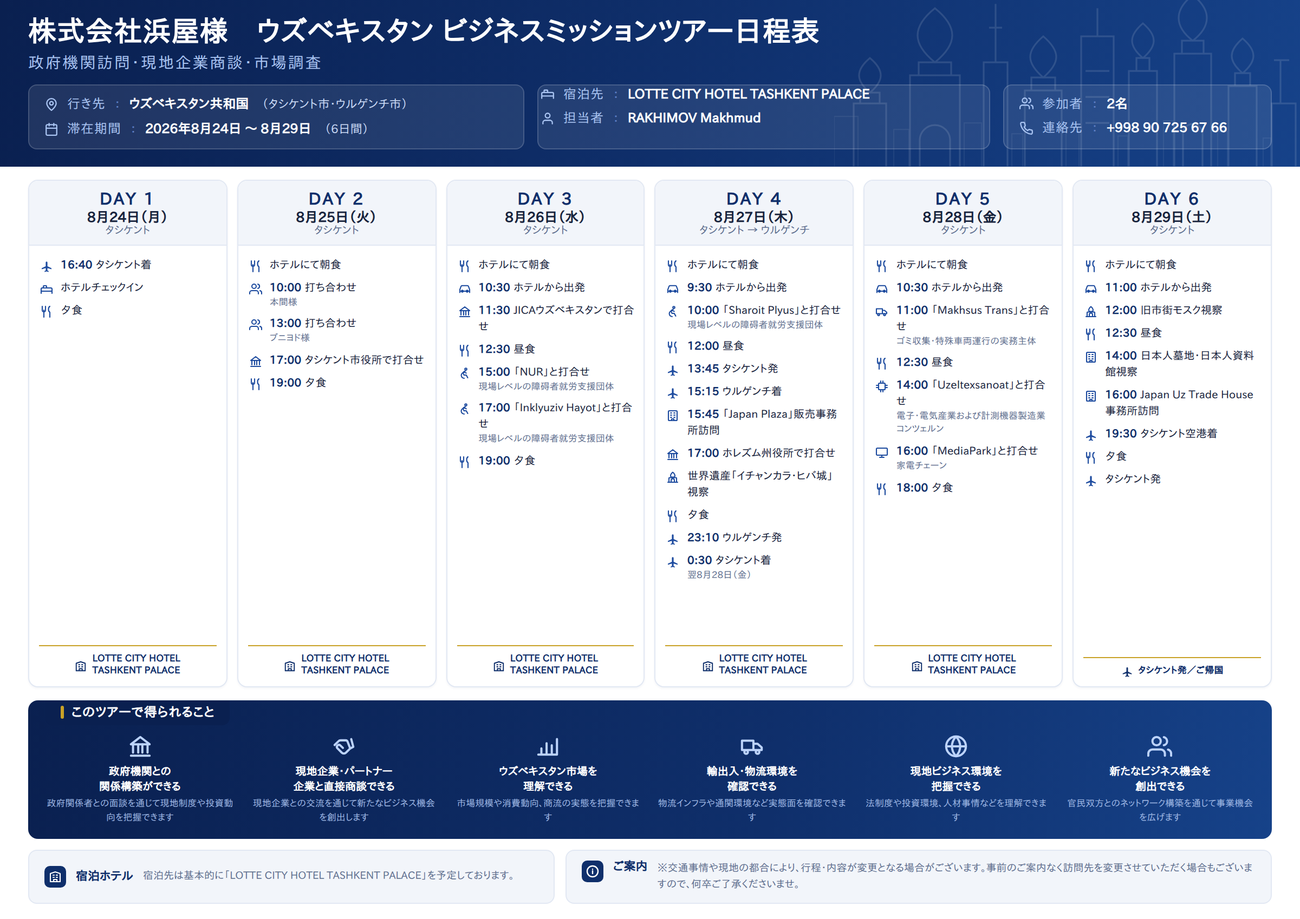
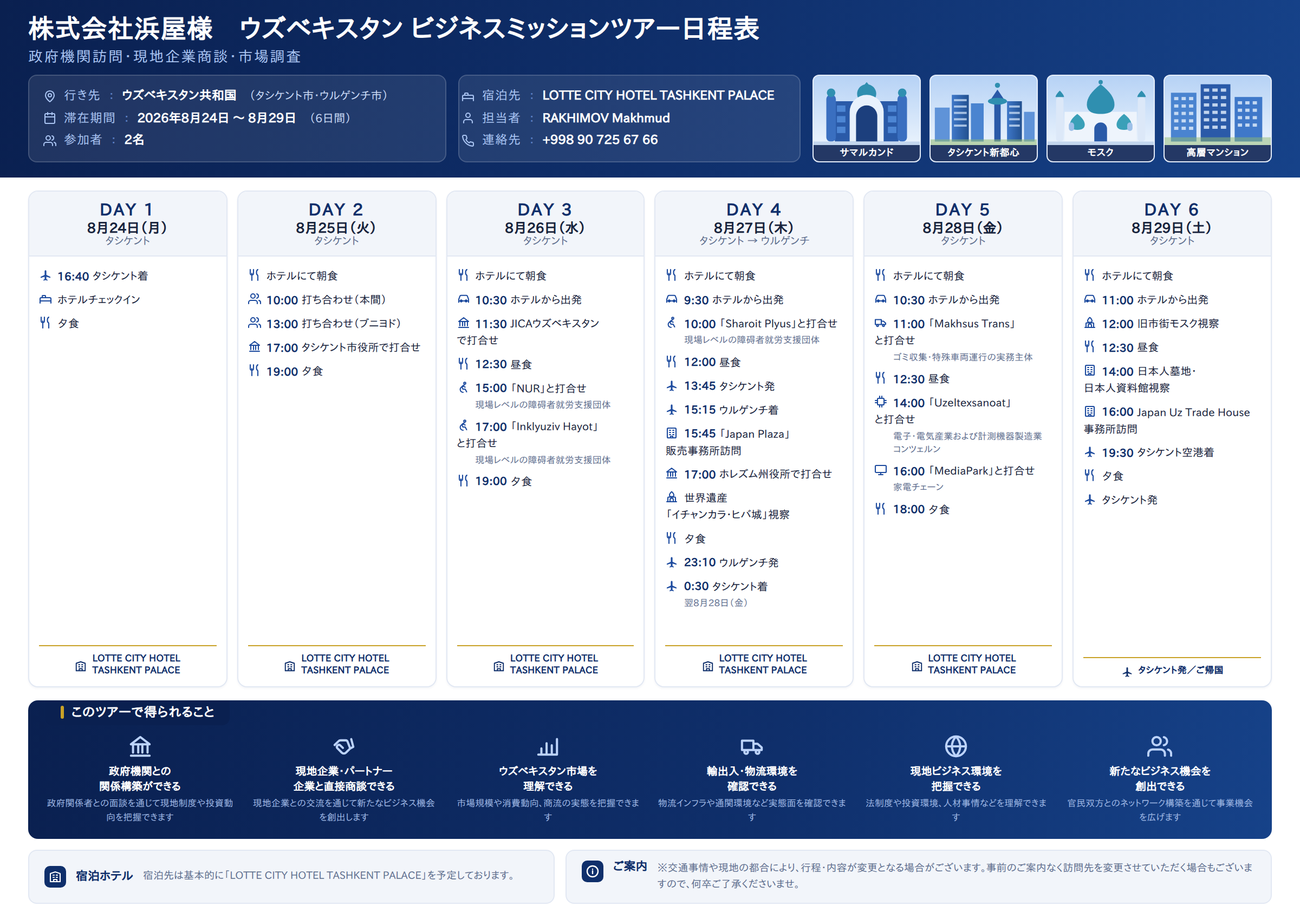
敬称の削除・右上フォトストリップの復活・改行位置の改善
- 25日の打合せ相手を「本間」「ブニヨド」に修正（敬称を付けない）
- 表記を「10:00 打ち合わせ（本間）」の形にまとめて読みやすく
- ヘッダー右上に4枚組のビジュアル（サマルカンド／タシケント新都心／
  モスク／高層マンション）を復活
- 項目のアイコンをインライン化し、折り返し行がカード幅いっぱいを使えるよう変更
- 固有名詞と「〜と打合せ」を改行禁止に指定し、「せ」だけが次行に
  こぼれる問題を解消（2行になっても語句の途中では切れない）
- 行き先欄に都市名を戻し、参加者欄と分離

Changed region(s): [[0.0, 0.0, 1.0, 0.6555]]

diff --git a/schedule/hamaya-uzbekistan-2026.html b/schedule/hamaya-uzbekistan-2026.html
@@ -14,22 +14,29 @@
        -webkit-font-smoothing:antialiased}
   .sheet{width:1200px;height:849px;background:#fff;display:flex;flex-direction:column;overflow:hidden}
 
-  /* ---------- header (navy block: title + info) ---------- */
+  /* ---------- header (navy block: title + info + photos) ---------- */
   .hero{position:relative;background:linear-gradient(100deg,#0a2050 0%,#0f2f6b 52%,#164289 100%);
-        padding:15px 26px 16px;color:#fff;flex:0 0 auto;overflow:hidden}
-  .skyline{position:absolute;right:0;top:0;height:100%;width:430px;opacity:.22}
-  .hero h1{font-size:26px;font-weight:900;letter-spacing:.4px;line-height:1.15;position:relative;z-index:2}
-  .hero .sub{margin-top:5px;font-size:14.5px;font-weight:500;color:#a9c4f2;letter-spacing:1.4px;position:relative;z-index:2}
-  .infobar{margin-top:13px;display:flex;gap:12px;position:relative;z-index:2}
+        padding:13px 26px 14px;color:#fff;flex:0 0 auto;overflow:hidden}
+  .hero h1{font-size:24px;font-weight:900;letter-spacing:.4px;line-height:1.15}
+  .hero .sub{margin-top:4px;font-size:13.5px;font-weight:500;color:#a9c4f2;letter-spacing:1.3px}
+  .hrow{margin-top:10px;display:flex;gap:11px;align-items:stretch}
   .ibox{background:rgba(255,255,255,.09);border:1px solid rgba(255,255,255,.16);border-radius:8px;
-        padding:9px 14px;display:flex;flex-direction:column;gap:6px}
-  .ibox.a{flex:0 0 458px} .ibox.b{flex:0 0 418px} .ibox.c{flex:1}
-  .kv{display:flex;align-items:center;gap:8px;font-size:12px;line-height:1.35}
-  .kv svg{width:13px;height:13px;flex:0 0 13px;color:#a9c4f2}
+        padding:8px 13px;display:flex;flex-direction:column;justify-content:center;gap:5px}
+  .ibox.a{flex:0 0 386px} .ibox.b{flex:1}
+  .kv{display:flex;align-items:center;gap:7px;font-size:11.5px;line-height:1.35}
+  .kv svg{width:12px;height:12px;flex:0 0 12px;color:#a9c4f2}
   .kv .k{color:#a9c4f2;font-weight:500;flex:0 0 auto;letter-spacing:.5px}
   .kv .sep{color:#5f80c4}
   .kv .v{font-weight:700;color:#fff;white-space:nowrap}
-  .kv .v small{font-weight:400;font-size:11px;color:#c9d9f5}
+  .kv .v small{font-weight:400;font-size:10.5px;color:#c9d9f5}
+
+  /* photo strip */
+  .photos{flex:0 0 424px;display:grid;grid-template-columns:repeat(4,1fr);gap:8px}
+  .ph{border-radius:6px;overflow:hidden;background:#dbe7f8;border:1px solid rgba(255,255,255,.28);
+      display:flex;flex-direction:column}
+  .ph svg{display:block;width:100%;height:100%;flex:1}
+  .ph .cap{background:rgba(10,32,80,.88);color:#fff;font-size:9px;font-weight:700;
+           text-align:center;padding:3px 2px;letter-spacing:.3px}
 
   /* ---------- days ---------- */
   .days{flex:1 1 auto;display:grid;grid-template-columns:repeat(6,1fr);gap:9px;padding:12px 26px 0;min-height:0}
@@ -41,12 +48,14 @@
   .dhead .city{margin-top:1px;font-size:10px;font-weight:500;color:var(--muted)}
 
   .items{flex:1;padding:8px 9px 2px;display:flex;flex-direction:column}
-  .it{display:flex;gap:6px;padding:3px 0}
-  .it .ic{width:14px;flex:0 0 14px;display:flex;justify-content:center;padding-top:2px;color:var(--navy-l)}
-  .it .ic svg{width:12px;height:12px}
-  .it .body{min-width:0;font-size:10px;line-height:1.5;color:var(--ink);font-weight:500}
-  .it .body .t{font-weight:700;color:var(--navy);letter-spacing:.2px;margin-right:3px}
-  .it .body .n{display:block;font-size:8.5px;color:var(--muted);font-weight:400;line-height:1.4;margin-top:1px}
+  .it{padding:3px 0;font-size:10px;line-height:1.55;color:var(--ink);font-weight:500;
+      word-break:normal;overflow-wrap:normal;line-break:strict}
+  .it .ic{display:inline-block;width:12px;height:12px;vertical-align:-1.5px;
+          margin-right:5px;color:var(--navy-l)}
+  .it .t{font-weight:700;color:var(--navy);letter-spacing:.2px;margin-right:3px;white-space:nowrap}
+  .it .n{display:block;font-size:8.5px;color:var(--muted);font-weight:400;
+         line-height:1.45;margin-top:1px;padding-left:17px}
+  .nb{white-space:nowrap}
 
   .dfoot{margin:4px 9px 0;border-top:1px solid var(--gold);padding:7px 0 8px;
          display:flex;align-items:center;justify-content:center;gap:5px;color:var(--navy);text-align:center}
@@ -110,45 +119,93 @@
 
   <!-- ================= HERO ================= -->
   <div class="hero">
-    <svg class="skyline" viewBox="0 0 430 180" preserveAspectRatio="xMaxYMax slice" fill="none">
-      <g stroke="#ffffff" stroke-width="1.6" opacity=".55">
-        <path d="M18 180v-58h30v58M24 122v-10h18v10M33 112c7-6 10-11 10-16 0-6-4-11-10-16-6 5-10 10-10 16 0 5 3 10 10 16Z"/>
-        <path d="M70 180v-84h46v84M78 96V84h30v12M93 84c11-9 16-17 16-25 0-9-6-17-16-25-10 8-16 16-16 25 0 8 5 16 16 25Z" />
-        <path d="M79 180v-24a14 14 0 0 1 28 0v24"/>
-        <path d="M138 180v-96h22v96M149 84V52M143 52h12M149 52c0-8 0-16 0-22"/>
-        <path d="M176 180v-70h34v70M182 110V98h22v12M193 98c8-7 12-13 12-19 0-7-5-13-12-19-7 6-12 12-12 19 0 6 4 12 12 19Z"/>
-        <path d="M228 180v-120h30v120M243 60V34M232 92h22M232 116h22M232 140h22"/>
-        <path d="M272 180v-88h26v88M279 92V80h12v12M285 80c7-6 10-11 10-16s-3-10-10-16c-7 6-10 11-10 16s3 10 10 16Z"/>
-        <path d="M314 180v-104h34v104M321 76V64h20v12M331 64c9-7 13-14 13-21s-4-14-13-21c-9 7-13 14-13 21s4 14 13 21Z"/>
-        <path d="M322 180v-30a9 9 0 0 1 18 0v30"/>
-        <path d="M364 180v-74h26v74M370 106V94h14v12M377 94c7-6 10-11 10-16s-3-10-10-16c-7 6-10 11-10 16s3 10 10 16Z"/>
-        <path d="M404 180v-58h22v58M412 122v-40M406 82h14"/>
-      </g>
-      <g stroke="#ffffff" stroke-width="1.1" opacity=".28">
-        <path d="M0 180v-46h22v46M55 180v-34h14v34M120 180v-40h16v40M164 180v-30h10v30M214 180v-36h12v36M262 180v-28h9v28M304 180v-42h9v42M354 180v-32h9v32M396 180v-26h7v26"/>
-      </g>
-    </svg>
     <h1>株式会社浜屋様　ウズベキスタン ビジネスミッションツアー日程表</h1>
     <div class="sub">政府機関訪問・現地企業商談・市場調査</div>
 
-    <div class="infobar">
+    <div class="hrow">
       <div class="ibox a">
         <div class="kv"><svg><use href="#i-pin"/></svg><span class="k">行き先</span><span class="sep">：</span>
           <span class="v">ウズベキスタン共和国　<small>（タシケント市・ウルゲンチ市）</small></span></div>
         <div class="kv"><svg><use href="#i-cal"/></svg><span class="k">滞在期間</span><span class="sep">：</span>
           <span class="v">2026年8月24日 〜 8月29日　<small>（6日間）</small></span></div>
+        <div class="kv"><svg><use href="#i-users"/></svg><span class="k">参加者</span><span class="sep">：</span>
+          <span class="v">2名</span></div>
       </div>
       <div class="ibox b">
         <div class="kv"><svg><use href="#i-bed"/></svg><span class="k">宿泊先</span><span class="sep">：</span>
           <span class="v">LOTTE CITY HOTEL TASHKENT PALACE</span></div>
         <div class="kv"><svg><use href="#i-user"/></svg><span class="k">担当者</span><span class="sep">：</span>
           <span class="v">RAKHIMOV Makhmud</span></div>
-      </div>
-      <div class="ibox c">
-        <div class="kv"><svg><use href="#i-users"/></svg><span class="k">参加者</span><span class="sep">：</span>
-          <span class="v">2名</span></div>
         <div class="kv"><svg><use href="#i-phone"/></svg><span class="k">連絡先</span><span class="sep">：</span>
           <span class="v">+998 90 725 67 66</span></div>
+      </div>
+
+      <div class="photos">
+        <div class="ph"><svg viewBox="0 0 100 66" preserveAspectRatio="xMidYMid slice">
+  <defs><linearGradient id="s1" x1="0" y1="0" x2="0" y2="1"><stop offset="0" stop-color="#b6d2f5"/><stop offset="1" stop-color="#eaf3fd"/></linearGradient></defs>
+  <rect width="100" height="66" fill="url(#s1)"/>
+  <circle cx="50" cy="17" r="9" fill="#2f8fb0"/><path d="M50 6c3 3 4 6 4 9H46c0-3 1-6 4-9Z" fill="#2f8fb0"/>
+  <rect x="20" y="24" width="60" height="38" fill="#2a5aa8"/>
+  <path d="M34 62V34a16 16 0 0 1 32 0v28Z" fill="#e8f1fc"/>
+  <path d="M40 62V38a10 10 0 0 1 20 0v24Z" fill="#1c3f7d"/>
+  <rect x="12" y="18" width="9" height="44" rx="4" fill="#3a6fc0"/><circle cx="16.5" cy="16" r="4" fill="#2f8fb0"/>
+  <rect x="79" y="18" width="9" height="44" rx="4" fill="#3a6fc0"/><circle cx="83.5" cy="16" r="4" fill="#2f8fb0"/>
+  <g fill="#4d86d4"><rect x="22" y="28" width="8" height="6"/><rect x="22" y="38" width="8" height="6"/><rect x="22" y="48" width="8" height="6"/><rect x="70" y="28" width="8" height="6"/><rect x="70" y="38" width="8" height="6"/><rect x="70" y="48" width="8" height="6"/></g>
+  <rect y="62" width="100" height="4" fill="#c3d6ee"/>
+</svg><div class="cap">サマルカンド</div></div>
+        <div class="ph"><svg viewBox="0 0 100 66" preserveAspectRatio="xMidYMid slice">
+  <defs><linearGradient id="s2" x1="0" y1="0" x2="0" y2="1"><stop offset="0" stop-color="#b6d2f5"/><stop offset="1" stop-color="#eaf3fd"/></linearGradient>
+  <linearGradient id="g2" x1="0" y1="0" x2="1" y2="0"><stop offset="0" stop-color="#3f78c9"/><stop offset="1" stop-color="#22508f"/></linearGradient></defs>
+  <rect width="100" height="66" fill="url(#s2)"/>
+  <rect x="4" y="30" width="14" height="32" fill="#5f93d8"/>
+  <rect x="20" y="18" width="16" height="44" fill="url(#g2)"/>
+  <rect x="38" y="26" width="12" height="36" fill="#4a84d0"/>
+  <path d="M60 62V22h6v40Z" fill="#2a5aa8"/><path d="M57 22h12l-6-9Z" fill="#2a5aa8"/>
+  <ellipse cx="63" cy="24" rx="9" ry="3.2" fill="#2f8fb0"/><circle cx="63" cy="9" r="2.4" fill="#2f8fb0"/>
+  <rect x="72" y="24" width="14" height="38" fill="url(#g2)"/>
+  <rect x="88" y="34" width="10" height="28" fill="#5f93d8"/>
+  <g fill="#cfe2f8" opacity=".75"><rect x="22" y="22" width="12" height="2"/><rect x="22" y="28" width="12" height="2"/><rect x="22" y="34" width="12" height="2"/><rect x="22" y="40" width="12" height="2"/><rect x="22" y="46" width="12" height="2"/><rect x="74" y="28" width="10" height="2"/><rect x="74" y="34" width="10" height="2"/><rect x="74" y="40" width="10" height="2"/><rect x="74" y="46" width="10" height="2"/></g>
+  <rect y="60" width="100" height="6" fill="#8fb96f" opacity=".55"/>
+</svg><div class="cap">タシケント新都心</div></div>
+        <div class="ph"><svg viewBox="0 0 100 66" preserveAspectRatio="xMidYMid slice">
+  <defs><linearGradient id="s3" x1="0" y1="0" x2="0" y2="1"><stop offset="0" stop-color="#b6d2f5"/><stop offset="1" stop-color="#eaf3fd"/></linearGradient></defs>
+  <rect width="100" height="66" fill="url(#s3)"/>
+  <rect x="16" y="34" width="68" height="28" fill="#eef4fc"/>
+  <path d="M50 8c9 7 13 13 13 19 0 5-3 9-13 9s-13-4-13-9c0-6 4-12 13-19Z" fill="#2f8fb0"/>
+  <circle cx="50" cy="6" r="2" fill="#2f8fb0"/>
+  <path d="M28 36c5 4 7 7 7 10 0 3-2 5-7 5s-7-2-7-5c0-3 2-6 7-10Z" fill="#3aa0b8"/>
+  <path d="M72 36c5 4 7 7 7 10 0 3-2 5-7 5s-7-2-7-5c0-3 2-6 7-10Z" fill="#3aa0b8"/>
+  <rect x="8" y="20" width="7" height="42" rx="3" fill="#dce8f8"/><path d="M11.5 14c3 3 4 5 4 6h-8c0-1 1-3 4-6Z" fill="#2f8fb0"/>
+  <rect x="85" y="20" width="7" height="42" rx="3" fill="#dce8f8"/><path d="M88.5 14c3 3 4 5 4 6h-8c0-1 1-3 4-6Z" fill="#2f8fb0"/>
+  <path d="M44 62V50a6 6 0 0 1 12 0v12Z" fill="#2a5aa8"/>
+  <g fill="#9dc0e8"><rect x="20" y="44" width="5" height="8" rx="2.5"/><rect x="75" y="44" width="5" height="8" rx="2.5"/></g>
+  <rect y="62" width="100" height="4" fill="#c3d6ee"/>
+</svg><div class="cap">モスク</div></div>
+        <div class="ph"><svg viewBox="0 0 100 66" preserveAspectRatio="xMidYMid slice">
+  <defs><linearGradient id="s4" x1="0" y1="0" x2="0" y2="1"><stop offset="0" stop-color="#b6d2f5"/><stop offset="1" stop-color="#eaf3fd"/></linearGradient></defs>
+  <rect width="100" height="66" fill="url(#s4)"/>
+  <rect x="6" y="16" width="24" height="46" fill="#4a84d0"/>
+  <rect x="34" y="8" width="28" height="54" fill="#2a5aa8"/>
+  <rect x="66" y="20" width="26" height="42" fill="#3f78c9"/>
+  <g fill="#dbe9fa" opacity=".85">
+    <rect x="9" y="20" width="4" height="3"/><rect x="16" y="20" width="4" height="3"/><rect x="23" y="20" width="4" height="3"/>
+    <rect x="9" y="27" width="4" height="3"/><rect x="16" y="27" width="4" height="3"/><rect x="23" y="27" width="4" height="3"/>
+    <rect x="9" y="34" width="4" height="3"/><rect x="16" y="34" width="4" height="3"/><rect x="23" y="34" width="4" height="3"/>
+    <rect x="9" y="41" width="4" height="3"/><rect x="16" y="41" width="4" height="3"/><rect x="23" y="41" width="4" height="3"/>
+    <rect x="9" y="48" width="4" height="3"/><rect x="16" y="48" width="4" height="3"/><rect x="23" y="48" width="4" height="3"/>
+    <rect x="37" y="12" width="5" height="3"/><rect x="45" y="12" width="5" height="3"/><rect x="53" y="12" width="5" height="3"/>
+    <rect x="37" y="19" width="5" height="3"/><rect x="45" y="19" width="5" height="3"/><rect x="53" y="19" width="5" height="3"/>
+    <rect x="37" y="26" width="5" height="3"/><rect x="45" y="26" width="5" height="3"/><rect x="53" y="26" width="5" height="3"/>
+    <rect x="37" y="33" width="5" height="3"/><rect x="45" y="33" width="5" height="3"/><rect x="53" y="33" width="5" height="3"/>
+    <rect x="37" y="40" width="5" height="3"/><rect x="45" y="40" width="5" height="3"/><rect x="53" y="40" width="5" height="3"/>
+    <rect x="37" y="47" width="5" height="3"/><rect x="45" y="47" width="5" height="3"/><rect x="53" y="47" width="5" height="3"/>
+    <rect x="69" y="24" width="4" height="3"/><rect x="76" y="24" width="4" height="3"/><rect x="83" y="24" width="4" height="3"/>
+    <rect x="69" y="31" width="4" height="3"/><rect x="76" y="31" width="4" height="3"/><rect x="83" y="31" width="4" height="3"/>
+    <rect x="69" y="38" width="4" height="3"/><rect x="76" y="38" width="4" height="3"/><rect x="83" y="38" width="4" height="3"/>
+    <rect x="69" y="45" width="4" height="3"/><rect x="76" y="45" width="4" height="3"/><rect x="83" y="45" width="4" height="3"/>
+  </g>
+  <rect y="58" width="100" height="8" fill="#8fb96f" opacity=".5"/>
+</svg><div class="cap">高層マンション</div></div>
       </div>
     </div>
   </div>
@@ -159,9 +216,9 @@
     <div class="day">
       <div class="dhead"><div class="num">DAY 1</div><div class="date">8月24日（月）</div><div class="city">タシケント</div></div>
       <div class="items">
-        <div class="it"><div class="ic"><svg><use href="#i-plane"/></svg></div><div class="body"><span class="t">16:40</span>タシケント着</div></div>
-        <div class="it"><div class="ic"><svg><use href="#i-bed"/></svg></div><div class="body">ホテルチェックイン</div></div>
-        <div class="it"><div class="ic"><svg><use href="#i-meal"/></svg></div><div class="body">夕食</div></div>
+        <div class="it"><svg class="ic"><use href="#i-plane"/></svg><span class="t">16:40</span>タシケント着</div>
+        <div class="it"><svg class="ic"><use href="#i-bed"/></svg><span class="nb">ホテルチェックイン</span></div>
+        <div class="it"><svg class="ic"><use href="#i-meal"/></svg>夕食</div>
       </div>
       <div class="dfoot"><svg><use href="#i-hotel2"/></svg><span>LOTTE CITY HOTEL<br>TASHKENT PALACE</span></div>
     </div>
@@ -169,11 +226,11 @@
     <div class="day">
       <div class="dhead"><div class="num">DAY 2</div><div class="date">8月25日（火）</div><div class="city">タシケント</div></div>
       <div class="items">
-        <div class="it"><div class="ic"><svg><use href="#i-meal"/></svg></div><div class="body">ホテルにて朝食</div></div>
-        <div class="it"><div class="ic"><svg><use href="#i-users"/></svg></div><div class="body"><span class="t">10:00</span>打ち合わせ<span class="n">本間様</span></div></div>
-        <div class="it"><div class="ic"><svg><use href="#i-users"/></svg></div><div class="body"><span class="t">13:00</span>打ち合わせ<span class="n">ブニヨド様</span></div></div>
-        <div class="it"><div class="ic"><svg><use href="#i-bank"/></svg></div><div class="body"><span class="t">17:00</span>タシケント市役所で打合せ</div></div>
-        <div class="it"><div class="ic"><svg><use href="#i-meal"/></svg></div><div class="body"><span class="t">19:00</span>夕食</div></div>
+        <div class="it"><svg class="ic"><use href="#i-meal"/></svg><span class="nb">ホテルにて朝食</span></div>
+        <div class="it"><svg class="ic"><use href="#i-users"/></svg><span class="t">10:00</span>打ち合わせ<span class="nb">（本間）</span></div>
+        <div class="it"><svg class="ic"><use href="#i-users"/></svg><span class="t">13:00</span>打ち合わせ<span class="nb">（ブニヨド）</span></div>
+        <div class="it"><svg class="ic"><use href="#i-bank"/></svg><span class="t">17:00</span><span class="nb">タシケント市役所</span><span class="nb">で打合せ</span></div>
+        <div class="it"><svg class="ic"><use href="#i-meal"/></svg><span class="t">19:00</span>夕食</div>
       </div>
       <div class="dfoot"><svg><use href="#i-hotel2"/></svg><span>LOTTE CITY HOTEL<br>TASHKENT PALACE</span></div>
     </div>
@@ -181,13 +238,13 @@
     <div class="day">
       <div class="dhead"><div class="num">DAY 3</div><div class="date">8月26日（水）</div><div class="city">タシケント</div></div>
       <div class="items">
-        <div class="it"><div class="ic"><svg><use href="#i-meal"/></svg></div><div class="body">ホテルにて朝食</div></div>
-        <div class="it"><div class="ic"><svg><use href="#i-car"/></svg></div><div class="body"><span class="t">10:30</span>ホテルから出発</div></div>
-        <div class="it"><div class="ic"><svg><use href="#i-bank"/></svg></div><div class="body"><span class="t">11:30</span>JICAウズベキスタンで打合せ</div></div>
-        <div class="it"><div class="ic"><svg><use href="#i-meal"/></svg></div><div class="body"><span class="t">12:30</span>昼食</div></div>
-        <div class="it"><div class="ic"><svg><use href="#i-acc"/></svg></div><div class="body"><span class="t">15:00</span>「NUR」と打合せ<span class="n">現場レベルの障碍者就労支援団体</span></div></div>
-        <div class="it"><div class="ic"><svg><use href="#i-acc"/></svg></div><div class="body"><span class="t">17:00</span>「Inklyuziv Hayot」と打合せ<span class="n">現場レベルの障碍者就労支援団体</span></div></div>
-        <div class="it"><div class="ic"><svg><use href="#i-meal"/></svg></div><div class="body"><span class="t">19:00</span>夕食</div></div>
+        <div class="it"><svg class="ic"><use href="#i-meal"/></svg><span class="nb">ホテルにて朝食</span></div>
+        <div class="it"><svg class="ic"><use href="#i-car"/></svg><span class="t">10:30</span><span class="nb">ホテルから出発</span></div>
+        <div class="it"><svg class="ic"><use href="#i-bank"/></svg><span class="t">11:30</span><span class="nb">JICAウズベキスタン</span><span class="nb">で打合せ</span></div>
+        <div class="it"><svg class="ic"><use href="#i-meal"/></svg><span class="t">12:30</span>昼食</div>
+        <div class="it"><svg class="ic"><use href="#i-acc"/></svg><span class="t">15:00</span><span class="nb">「NUR」</span><span class="nb">と打合せ</span><span class="n">現場レベルの障碍者就労支援団体</span></div>
+        <div class="it"><svg class="ic"><use href="#i-acc"/></svg><span class="t">17:00</span><span class="nb">「Inklyuziv Hayot」</span><span class="nb">と打合せ</span><span class="n">現場レベルの障碍者就労支援団体</span></div>
+        <div class="it"><svg class="ic"><use href="#i-meal"/></svg><span class="t">19:00</span>夕食</div>
       </div>
       <div class="dfoot"><svg><use href="#i-hotel2"/></svg><span>LOTTE CITY HOTEL<br>TASHKENT PALACE</span></div>
     </div>
@@ -195,18 +252,18 @@
     <div class="day">
       <div class="dhead"><div class="num">DAY 4</div><div class="date">8月27日（木）</div><div class="city">タシケント → ウルゲンチ</div></div>
       <div class="items">
-        <div class="it"><div class="ic"><svg><use href="#i-meal"/></svg></div><div class="body">ホテルにて朝食</div></div>
-        <div class="it"><div class="ic"><svg><use href="#i-car"/></svg></div><div class="body"><span class="t">9:30</span>ホテルから出発</div></div>
-        <div class="it"><div class="ic"><svg><use href="#i-acc"/></svg></div><div class="body"><span class="t">10:00</span>「Sharoit Plyus」と打合せ<span class="n">現場レベルの障碍者就労支援団体</span></div></div>
-        <div class="it"><div class="ic"><svg><use href="#i-meal"/></svg></div><div class="body"><span class="t">12:00</span>昼食</div></div>
-        <div class="it"><div class="ic"><svg><use href="#i-plane"/></svg></div><div class="body"><span class="t">13:45</span>タシケント発</div></div>
-        <div class="it"><div class="ic"><svg><use href="#i-plane"/></svg></div><div class="body"><span class="t">15:15</span>ウルゲンチ着</div></div>
-        <div class="it"><div class="ic"><svg><use href="#i-bldg"/></svg></div><div class="body"><span class="t">15:45</span>「Japan Plaza」販売事務所訪問</div></div>
-        <div class="it"><div class="ic"><svg><use href="#i-bank"/></svg></div><div class="body"><span class="t">17:00</span>ホレズム州役所で打合せ</div></div>
-        <div class="it"><div class="ic"><svg><use href="#i-mosque"/></svg></div><div class="body">世界遺産「イチャンカラ・ヒバ城」視察</div></div>
-        <div class="it"><div class="ic"><svg><use href="#i-meal"/></svg></div><div class="body">夕食</div></div>
-        <div class="it"><div class="ic"><svg><use href="#i-plane"/></svg></div><div class="body"><span class="t">23:10</span>ウルゲンチ発</div></div>
-        <div class="it"><div class="ic"><svg><use href="#i-plane"/></svg></div><div class="body"><span class="t">0:30</span>タシケント着<span class="n">翌8月28日（金）</span></div></div>
+        <div class="it"><svg class="ic"><use href="#i-meal"/></svg><span class="nb">ホテルにて朝食</span></div>
+        <div class="it"><svg class="ic"><use href="#i-car"/></svg><span class="t">9:30</span><span class="nb">ホテルから出発</span></div>
+        <div class="it"><svg class="ic"><use href="#i-acc"/></svg><span class="t">10:00</span><span class="nb">「Sharoit Plyus」</span><span class="nb">と打合せ</span><span class="n">現場レベルの障碍者就労支援団体</span></div>
+        <div class="it"><svg class="ic"><use href="#i-meal"/></svg><span class="t">12:00</span>昼食</div>
+        <div class="it"><svg class="ic"><use href="#i-plane"/></svg><span class="t">13:45</span>タシケント発</div>
+        <div class="it"><svg class="ic"><use href="#i-plane"/></svg><span class="t">15:15</span>ウルゲンチ着</div>
+        <div class="it"><svg class="ic"><use href="#i-bldg"/></svg><span class="t">15:45</span><span class="nb">「Japan Plaza」</span><span class="nb">販売事務所訪問</span></div>
+        <div class="it"><svg class="ic"><use href="#i-bank"/></svg><span class="t">17:00</span><span class="nb">ホレズム州役所</span><span class="nb">で打合せ</span></div>
+        <div class="it"><svg class="ic"><use href="#i-mosque"/></svg>世界遺産<span class="nb">「イチャンカラ・ヒバ城」視察</span></div>
+        <div class="it"><svg class="ic"><use href="#i-meal"/></svg>夕食</div>
+        <div class="it"><svg class="ic"><use href="#i-plane"/></svg><span class="t">23:10</span>ウルゲンチ発</div>
+        <div class="it"><svg class="ic"><use href="#i-plane"/></svg><span class="t">0:30</span>タシケント着<span class="n">翌8月28日（金）</span></div>
       </div>
       <div class="dfoot"><svg><use href="#i-hotel2"/></svg><span>LOTTE CITY HOTEL<br>TASHKENT PALACE</span></div>
     </div>
@@ -214,13 +271,13 @@
     <div class="day">
       <div class="dhead"><div class="num">DAY 5</div><div class="date">8月28日（金）</div><div class="city">タシケント</div></div>
       <div class="items">
-        <div class="it"><div class="ic"><svg><use href="#i-meal"/></svg></div><div class="body">ホテルにて朝食</div></div>
-        <div class="it"><div class="ic"><svg><use href="#i-car"/></svg></div><div class="body"><span class="t">10:30</span>ホテルから出発</div></div>
-        <div class="it"><div class="ic"><svg><use href="#i-truck"/></svg></div><div class="body"><span class="t">11:00</span>「Makhsus Trans」と打合せ<span class="n">ゴミ収集・特殊車両運行の実務主体</span></div></div>
-        <div class="it"><div class="ic"><svg><use href="#i-meal"/></svg></div><div class="body"><span class="t">12:30</span>昼食</div></div>
-        <div class="it"><div class="ic"><svg><use href="#i-chip"/></svg></div><div class="body"><span class="t">14:00</span>「Uzeltexsanoat」と打合せ<span class="n">電子・電気産業および計測機器製造業コンツェルン</span></div></div>
-        <div class="it"><div class="ic"><svg><use href="#i-tv"/></svg></div><div class="body"><span class="t">16:00</span>「MediaPark」と打合せ<span class="n">家電チェーン</span></div></div>
-        <div class="it"><div class="ic"><svg><use href="#i-meal"/></svg></div><div class="body"><span class="t">18:00</span>夕食</div></div>
+        <div class="it"><svg class="ic"><use href="#i-meal"/></svg><span class="nb">ホテルにて朝食</span></div>
+        <div class="it"><svg class="ic"><use href="#i-car"/></svg><span class="t">10:30</span><span class="nb">ホテルから出発</span></div>
+        <div class="it"><svg class="ic"><use href="#i-truck"/></svg><span class="t">11:00</span><span class="nb">「Makhsus Trans」</span><span class="nb">と打合せ</span><span class="n">ゴミ収集・特殊車両運行の実務主体</span></div>
+        <div class="it"><svg class="ic"><use href="#i-meal"/></svg><span class="t">12:30</span>昼食</div>
+        <div class="it"><svg class="ic"><use href="#i-chip"/></svg><span class="t">14:00</span><span class="nb">「Uzeltexsanoat」</span><span class="nb">と打合せ</span><span class="n">電子・電気産業および計測機器製造業<span class="nb">コンツェルン</span></span></div>
+        <div class="it"><svg class="ic"><use href="#i-tv"/></svg><span class="t">16:00</span><span class="nb">「MediaPark」</span><span class="nb">と打合せ</span><span class="n">家電チェーン</span></div>
+        <div class="it"><svg class="ic"><use href="#i-meal"/></svg><span class="t">18:00</span>夕食</div>
       </div>
       <div class="dfoot"><svg><use href="#i-hotel2"/></svg><span>LOTTE CITY HOTEL<br>TASHKENT PALACE</span></div>
     </div>
@@ -228,15 +285,15 @@
     <div class="day">
       <div class="dhead"><div class="num">DAY 6</div><div class="date">8月29日（土）</div><div class="city">タシケント</div></div>
       <div class="items">
-        <div class="it"><div class="ic"><svg><use href="#i-meal"/></svg></div><div class="body">ホテルにて朝食</div></div>
-        <div class="it"><div class="ic"><svg><use href="#i-car"/></svg></div><div class="body"><span class="t">11:00</span>ホテルから出発</div></div>
-        <div class="it"><div class="ic"><svg><use href="#i-mosque"/></svg></div><div class="body"><span class="t">12:00</span>旧市街モスク視察</div></div>
-        <div class="it"><div class="ic"><svg><use href="#i-meal"/></svg></div><div class="body"><span class="t">12:30</span>昼食</div></div>
-        <div class="it"><div class="ic"><svg><use href="#i-bldg"/></svg></div><div class="body"><span class="t">14:00</span>日本人墓地・日本人資料館視察</div></div>
-        <div class="it"><div class="ic"><svg><use href="#i-bldg"/></svg></div><div class="body"><span class="t">16:00</span>Japan Uz Trade House 事務所訪問</div></div>
-        <div class="it"><div class="ic"><svg><use href="#i-plane"/></svg></div><div class="body"><span class="t">19:30</span>タシケント空港着</div></div>
-        <div class="it"><div class="ic"><svg><use href="#i-meal"/></svg></div><div class="body">夕食</div></div>
-        <div class="it"><div class="ic"><svg><use href="#i-plane"/></svg></div><div class="body">タシケント発</div></div>
+        <div class="it"><svg class="ic"><use href="#i-meal"/></svg><span class="nb">ホテルにて朝食</span></div>
+        <div class="it"><svg class="ic"><use href="#i-car"/></svg><span class="t">11:00</span><span class="nb">ホテルから出発</span></div>
+        <div class="it"><svg class="ic"><use href="#i-mosque"/></svg><span class="t">12:00</span><span class="nb">旧市街モスク視察</span></div>
+        <div class="it"><svg class="ic"><use href="#i-meal"/></svg><span class="t">12:30</span>昼食</div>
+        <div class="it"><svg class="ic"><use href="#i-bldg"/></svg><span class="t">14:00</span>日本人墓地・<span class="nb">日本人資料館視察</span></div>
+        <div class="it"><svg class="ic"><use href="#i-bldg"/></svg><span class="t">16:00</span>Japan Uz Trade House <span class="nb">事務所訪問</span></div>
+        <div class="it"><svg class="ic"><use href="#i-plane"/></svg><span class="t">19:30</span><span class="nb">タシケント空港着</span></div>
+        <div class="it"><svg class="ic"><use href="#i-meal"/></svg>夕食</div>
+        <div class="it"><svg class="ic"><use href="#i-plane"/></svg>タシケント発</div>
       </div>
       <div class="dfoot"><svg><use href="#i-plane"/></svg><span>タシケント発／ご帰国</span></div>
     </div>
